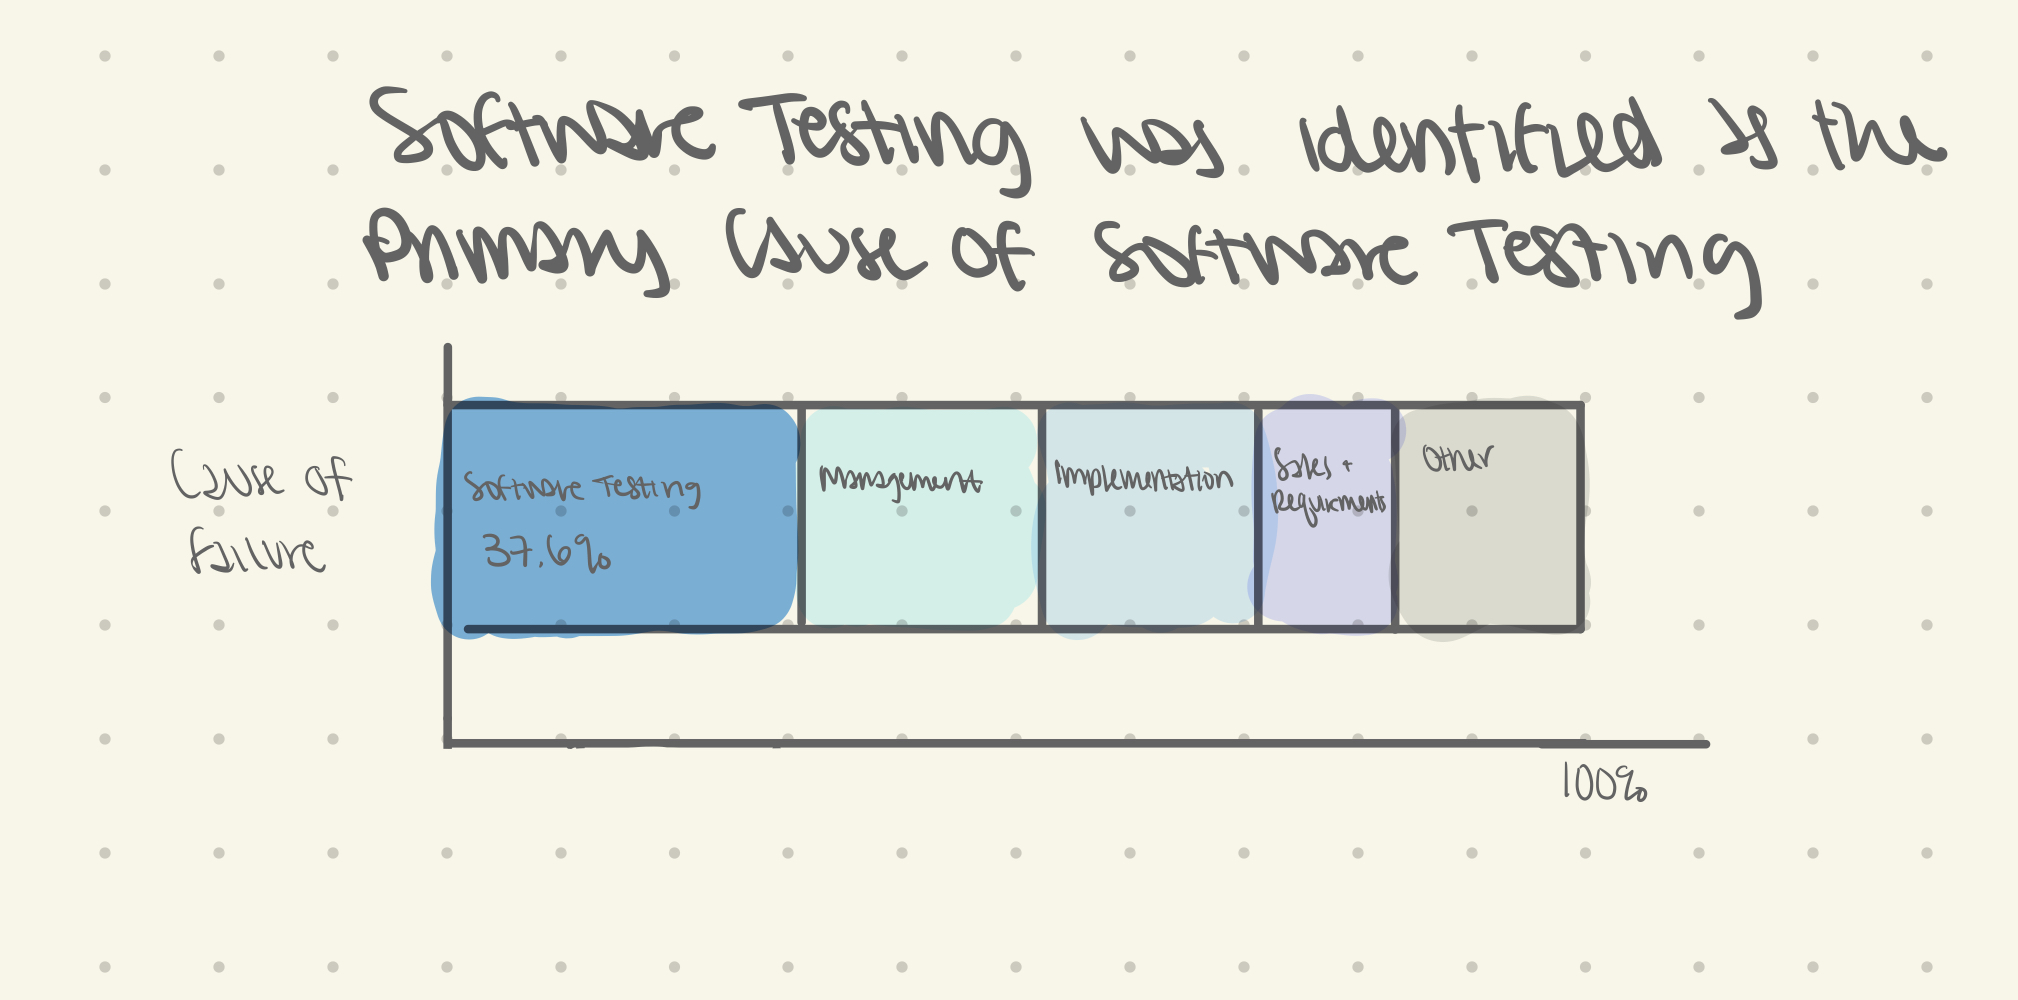
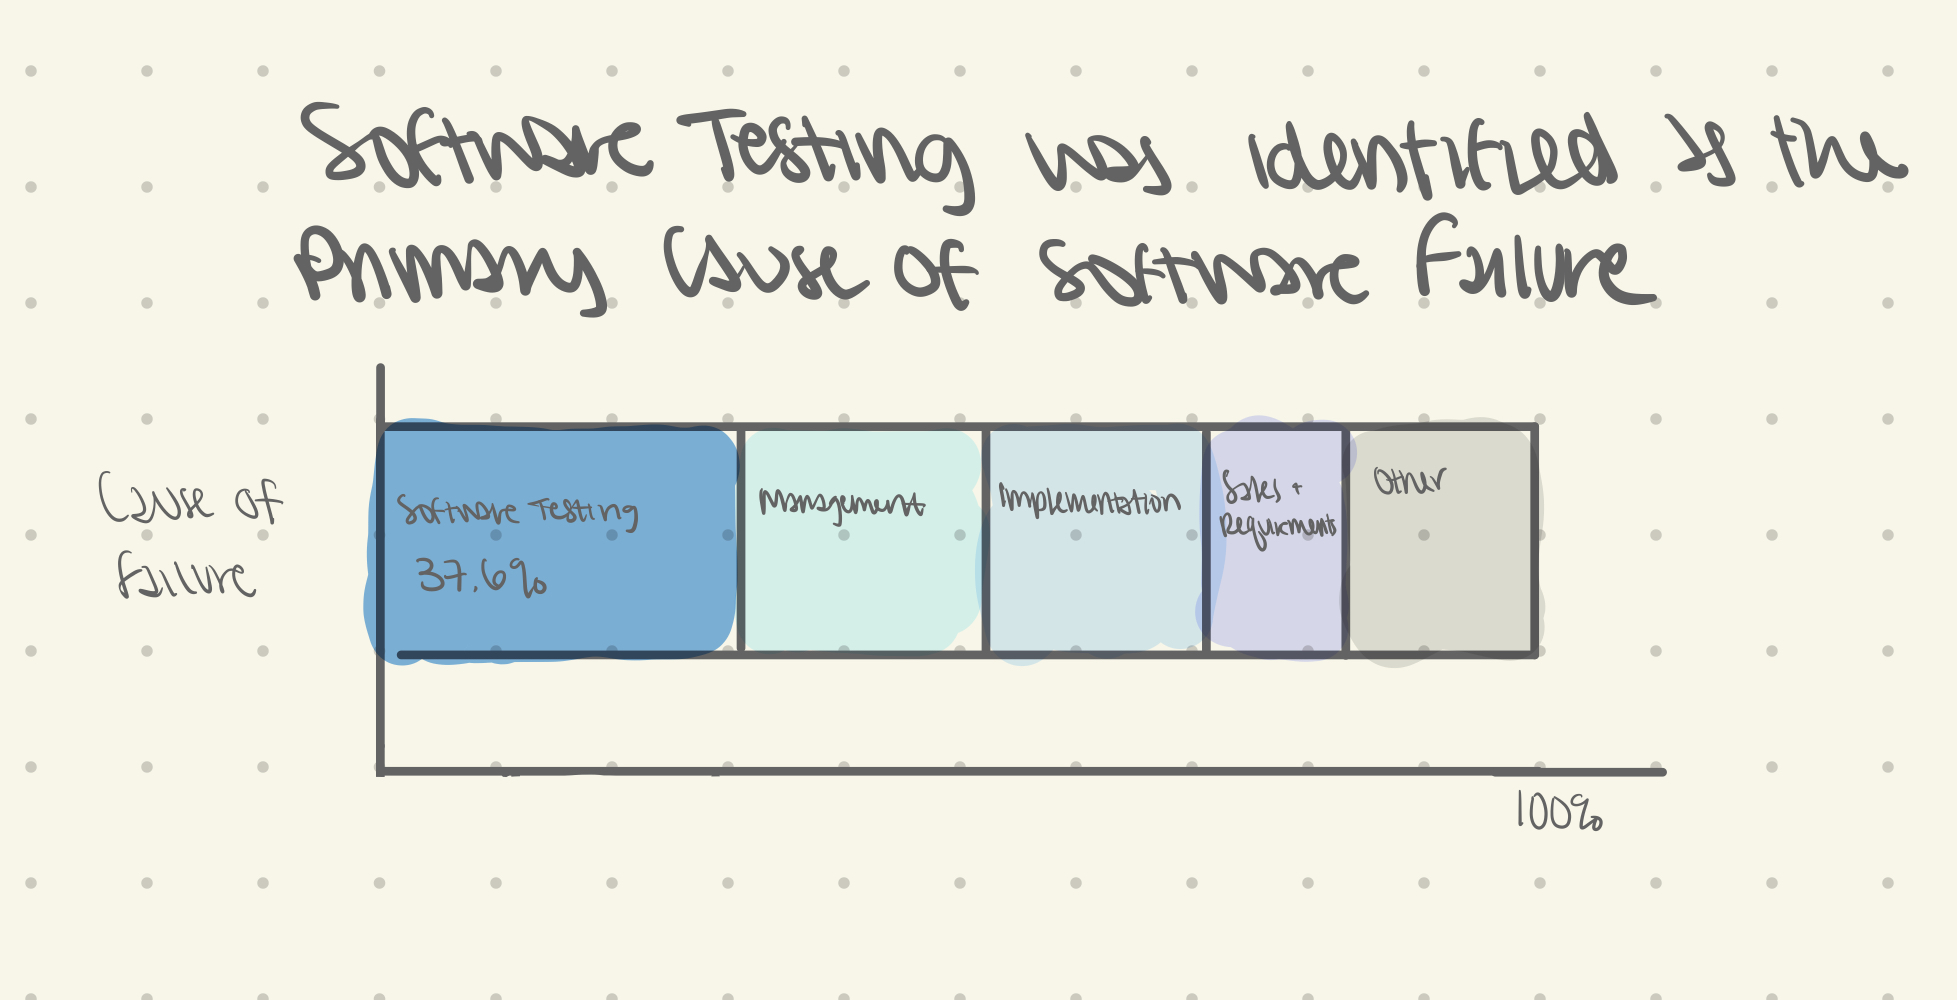
replaced sketch and added <> to readme links

diff --git a/final-project-part-one.md b/final-project-part-one.md
@@ -81,7 +81,7 @@ Most of the data used for this project will come from reports or research papers
 # Method and Medium
 I plan on primarily sketching my initial ideas by hand, both for data visualizations as well as the overall presentation. After sketching, I will primarily use Tableau for data visualization and Shorthand for the presentation. 
 
-Outlined in a general schedule for this project:
+Outlined below is a general schedule for this project:
 - Gather more data sources
 - Sketch more data visualizations based on those data sources
 - Transfer all relevant data into excel spreadsheets

diff --git a/README.md b/README.md
@@ -22,5 +22,5 @@ Hello! I am Julia, and I am currently majoring in Information Systems with a min
 ---
 
 # Important Links
-- Web page: https://cmustudent.github.io/tswd-portfolio-templates/
-- Repository: https://github.com/cmustudent/tswd-portfolio-templates/
+- Web page: <https://cmustudent.github.io/tswd-portfolio-templates/>
+- Repository: <https://github.com/cmustudent/tswd-portfolio-templates/>
